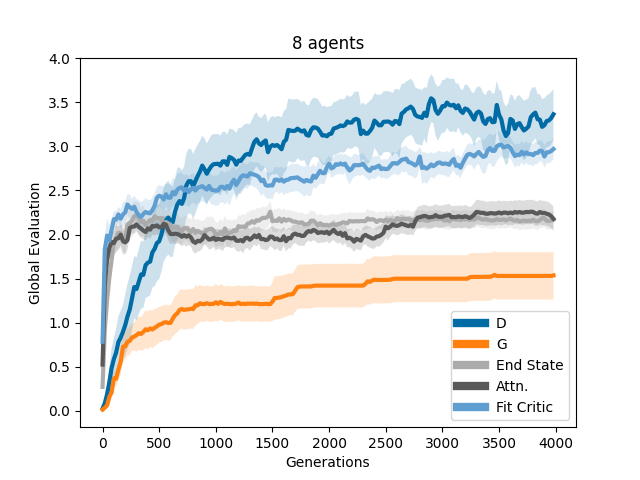
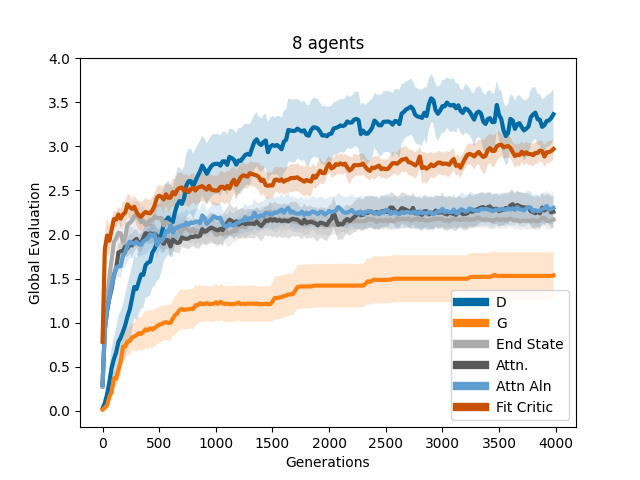
collecting data for debug

Changed region(s): [[0.1562, 0.2812, 0.875, 0.8125], [0.6875, 0.5938, 0.875, 0.875]]

diff --git a/train.py b/train.py
@@ -1,8 +1,12 @@
 import numpy as np
 
+
+import multiprocessing as mp
+import pickle as pkl
+import time
+
 import pyximport
 pyximport.install() 
-
 from rover_domain_core_gym import RoverDomainGym
 from code.ccea_2 import *
 from code.mod import assignDifferenceRewardTemporal
@@ -123,6 +127,68 @@ def train(env, reward_mechanism, generations=4000):
         evolveCceaPolicies(env.data)
     return R,pos
 
+def collect(idx, generations=4000):
+    env=make_env2(8,2)
+    R=[]
+    pos=[]
+    initCcea(input_shape=8, num_outputs=2, num_units=20)(env.data)
+
+    populationSize=len(env.data['Agent Populations'][0])
+    pop=env.data['Agent Populations']
+    
+    nagents=env.data['Number of Agents']
+    STATE=[]
+    for gen in range(generations):
+        
+        Globals=[]
+        evalutaion_data=[]
+        for worldIndex in range(populationSize):
+            
+            env.data["World Index"]=worldIndex
+            state = env.reset() 
+            S=[state]
+            done=False 
+            assignCceaPolicies(env.data)
+            trajectories=[[state[a]] for a in range(nagents)]
+            policyCol=env.data["Agent Policies"]
+            while not done:
+                action=[]
+                for s,pol in zip(state,policyCol):
+        
+                    a = pol.get_action(s)
+                    action.append(a)
+                action = np.array(action)*2.0
+                state, D, done, info = env.step(action)
+                S.append(state)
+                
+            
+            G=env.data["Global Reward"]
+            STATE.append([np.array(S),G])
+            D=env.data["Agent Rewards"]
+            Globals.append(G)
+            
+            
+            for d,pol in zip(D,policyCol):
+                pol.fitness=d
+        
+        print("Gen :"+str(gen)+"  Best G: "+str(max(Globals)))
+
+        evolveCceaPolicies(env.data)
+    with open("saves/data_"+idx+".pkl","wb") as f:
+        pkl.dump(STATE,f)
+    return 
+
+
 if __name__=="__main__":
-    env=make_env2(4,2)
-    train(env,"d")
+    if 0:
+        env=make_env2(4,2)
+        train(env,"d")
+    procs=[]
+    for trial in range(12):
+        
+        p=mp.Process(target=collect,args=(trial,))
+        time.sleep(0.2)
+        procs.append(p)
+        p.start()
+    for p in procs:
+        p.join()

diff --git a/plot2.py b/plot2.py
@@ -7,7 +7,7 @@ plt.style.use('tableau-colorblind10')
 nagents=8
 coupling=2
 window=20
-exp=-1
+exp=4
 lbl=["End State","End State Aln","Attn.","Attn Aln","Fit Critic","D","G"]
 
 
@@ -49,8 +49,8 @@ for trial in range(9):
         mkr=[".",",","*","v","^","<",">","1","2","3","4","8"][i]
         mkr="$"+str(i)+"$"
         #clr="k"
-        x=pos[1:,i,0]
-        y=pos[1:,i,1]
+        x=pos[::2,i,0]
+        y=pos[::2,i,1]
         print(len(x))
         plt.plot(x,y,color='k',marker=mkr,linewidth=1.0,linestyle=":")
 

diff --git a/rewards/attention.py b/rewards/attention.py
@@ -40,7 +40,7 @@ class Net(nn.Module):
         self.pos=torch.from_numpy(self.pos.astype(np.float32)).to(self.device)
 
         if loss_fn==0:
-            self.loss_fn = lambda x,y: torch.nn.MSELoss(reduction='sum')(x[:,-1,:],y[:,-1,:])
+            self.loss_fn = lambda x,y: torch.nn.MSELoss(reduction='sum')#(x[:,-1,:],y[:,-1,:])
         elif loss_fn==1:
             self.loss_fn = self.alignment_loss
         elif loss_fn ==2:

diff --git a/plot1.py b/plot1.py
@@ -8,7 +8,7 @@ nagents=8
 coupling=2
 window=20
 lbl=["End State","End State Aln","Attn.","Attn Aln","Fit Critic","D","G"]
-for exp in [-2,-1,0,2,4]:
+for exp in [-2,-1,0,2,3,4]:
     R=[]
     for trial in range(10):
         fname="-".join([str(s) for s in [nagents,exp,coupling,trial]])+".pkl"
